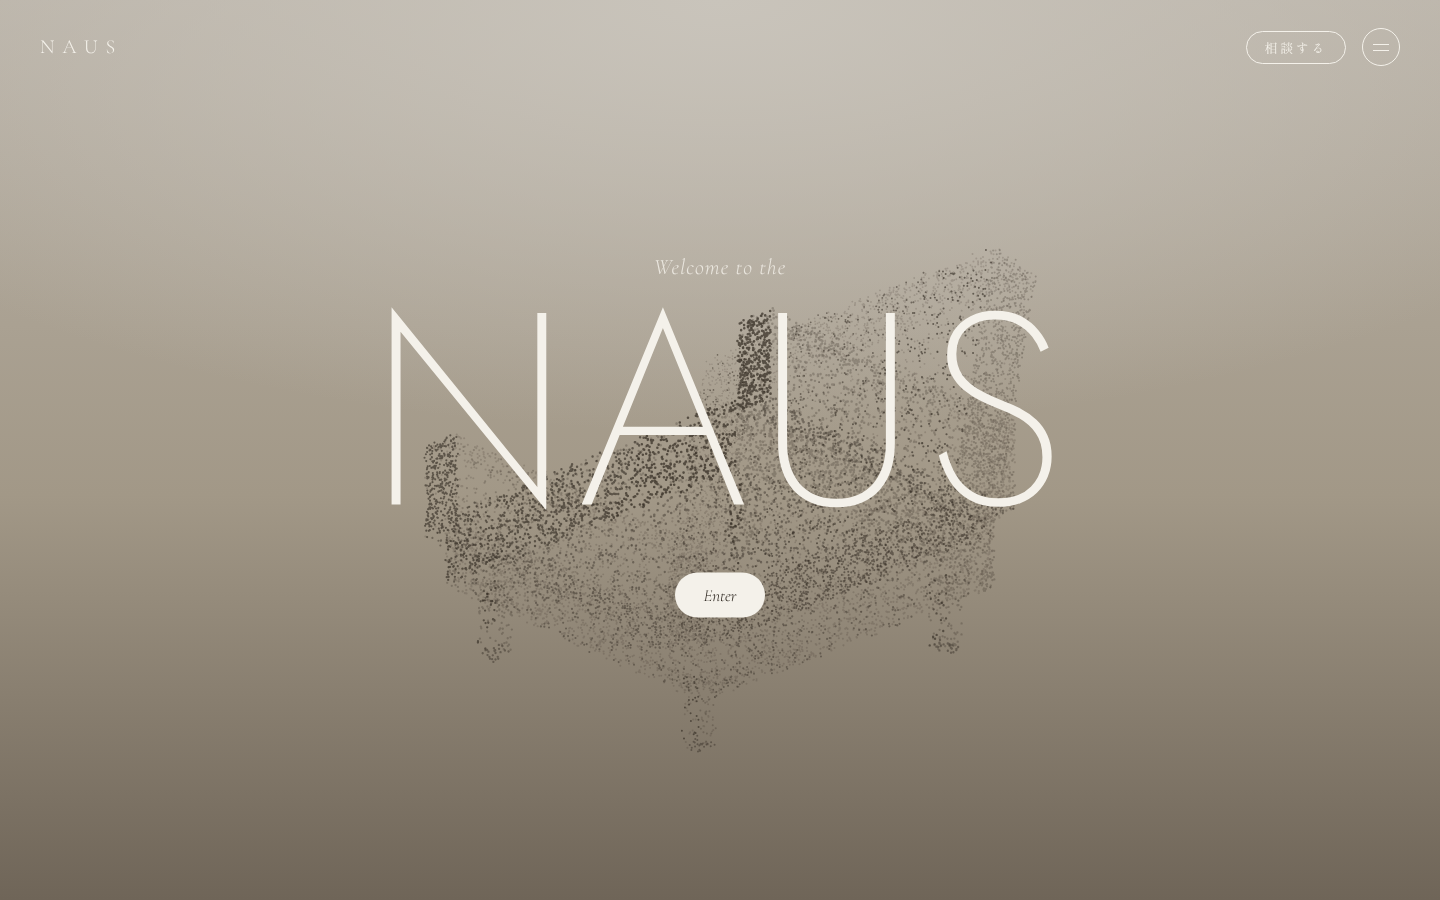
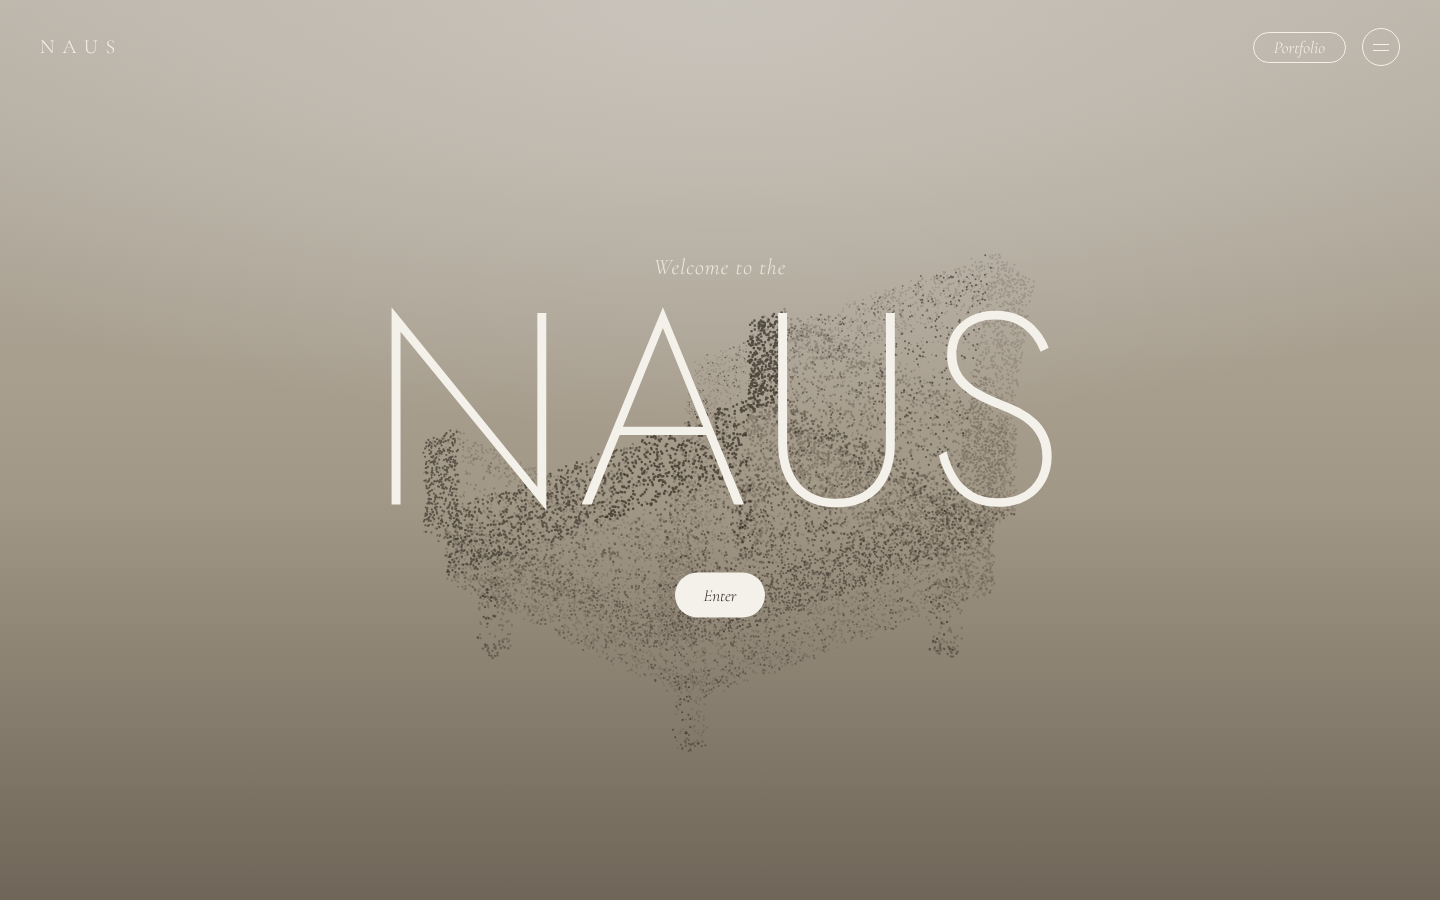
Concept E: header pill to Portfolio
Claude-Session: https://claude.ai/code/session_01LCqRGCmkTvX3q8iQxDLF2M

diff --git a/concepts/e.html b/concepts/e.html
@@ -7,7 +7,7 @@ background:radial-gradient(120% 80% at 50% 0%,#c9c4bb 0,transparent 60%),linear-
 #stage{position:fixed;inset:0;width:100%;height:100%}
 header{position:absolute;inset:0 0 auto 0;display:flex;justify-content:space-between;align-items:center;padding:28px clamp(20px,3vw,40px)}
 .logo{font-size:20px;letter-spacing:.4em}
-.pill{border:1px solid #f4f1ea;border-radius:99px;padding:6px 18px;font-size:13px;letter-spacing:.2em}
+.pill{border:1px solid #f4f1ea;border-radius:99px;padding:4px 20px;font-size:17px;font-style:italic}
 .ring{width:38px;height:38px;border:1px solid #f4f1ea;border-radius:50%;display:grid;place-content:center;gap:5px}.ring i{display:block;width:16px;height:1px;background:#f4f1ea}
 .right{display:flex;gap:16px;align-items:center}
 .center{position:absolute;left:0;right:0;top:50%;transform:translateY(-54%);text-align:center}
@@ -19,7 +19,7 @@ footer{position:absolute;left:0;right:0;bottom:24px;display:flex;justify-content
 @media(max-width:700px){footer{flex-direction:column;gap:6px}}
 </style>
 <canvas id=stage></canvas>
-<header><span class=logo>NAUS</span><div class=right><span class=pill>相談する</span><span class=ring><i></i><i></i></span></div></header>
+<header><span class=logo>NAUS</span><div class=right><span class=pill>Portfolio</span><span class=ring><i></i><i></i></span></div></header>
 <div class=center><small>Welcome to the</small><h1>NAUS</h1><a class=btn>Enter</a></div>
 <form id=memo hidden></form><pre id=out hidden></pre>
 <script src=e-chair.js></script>
